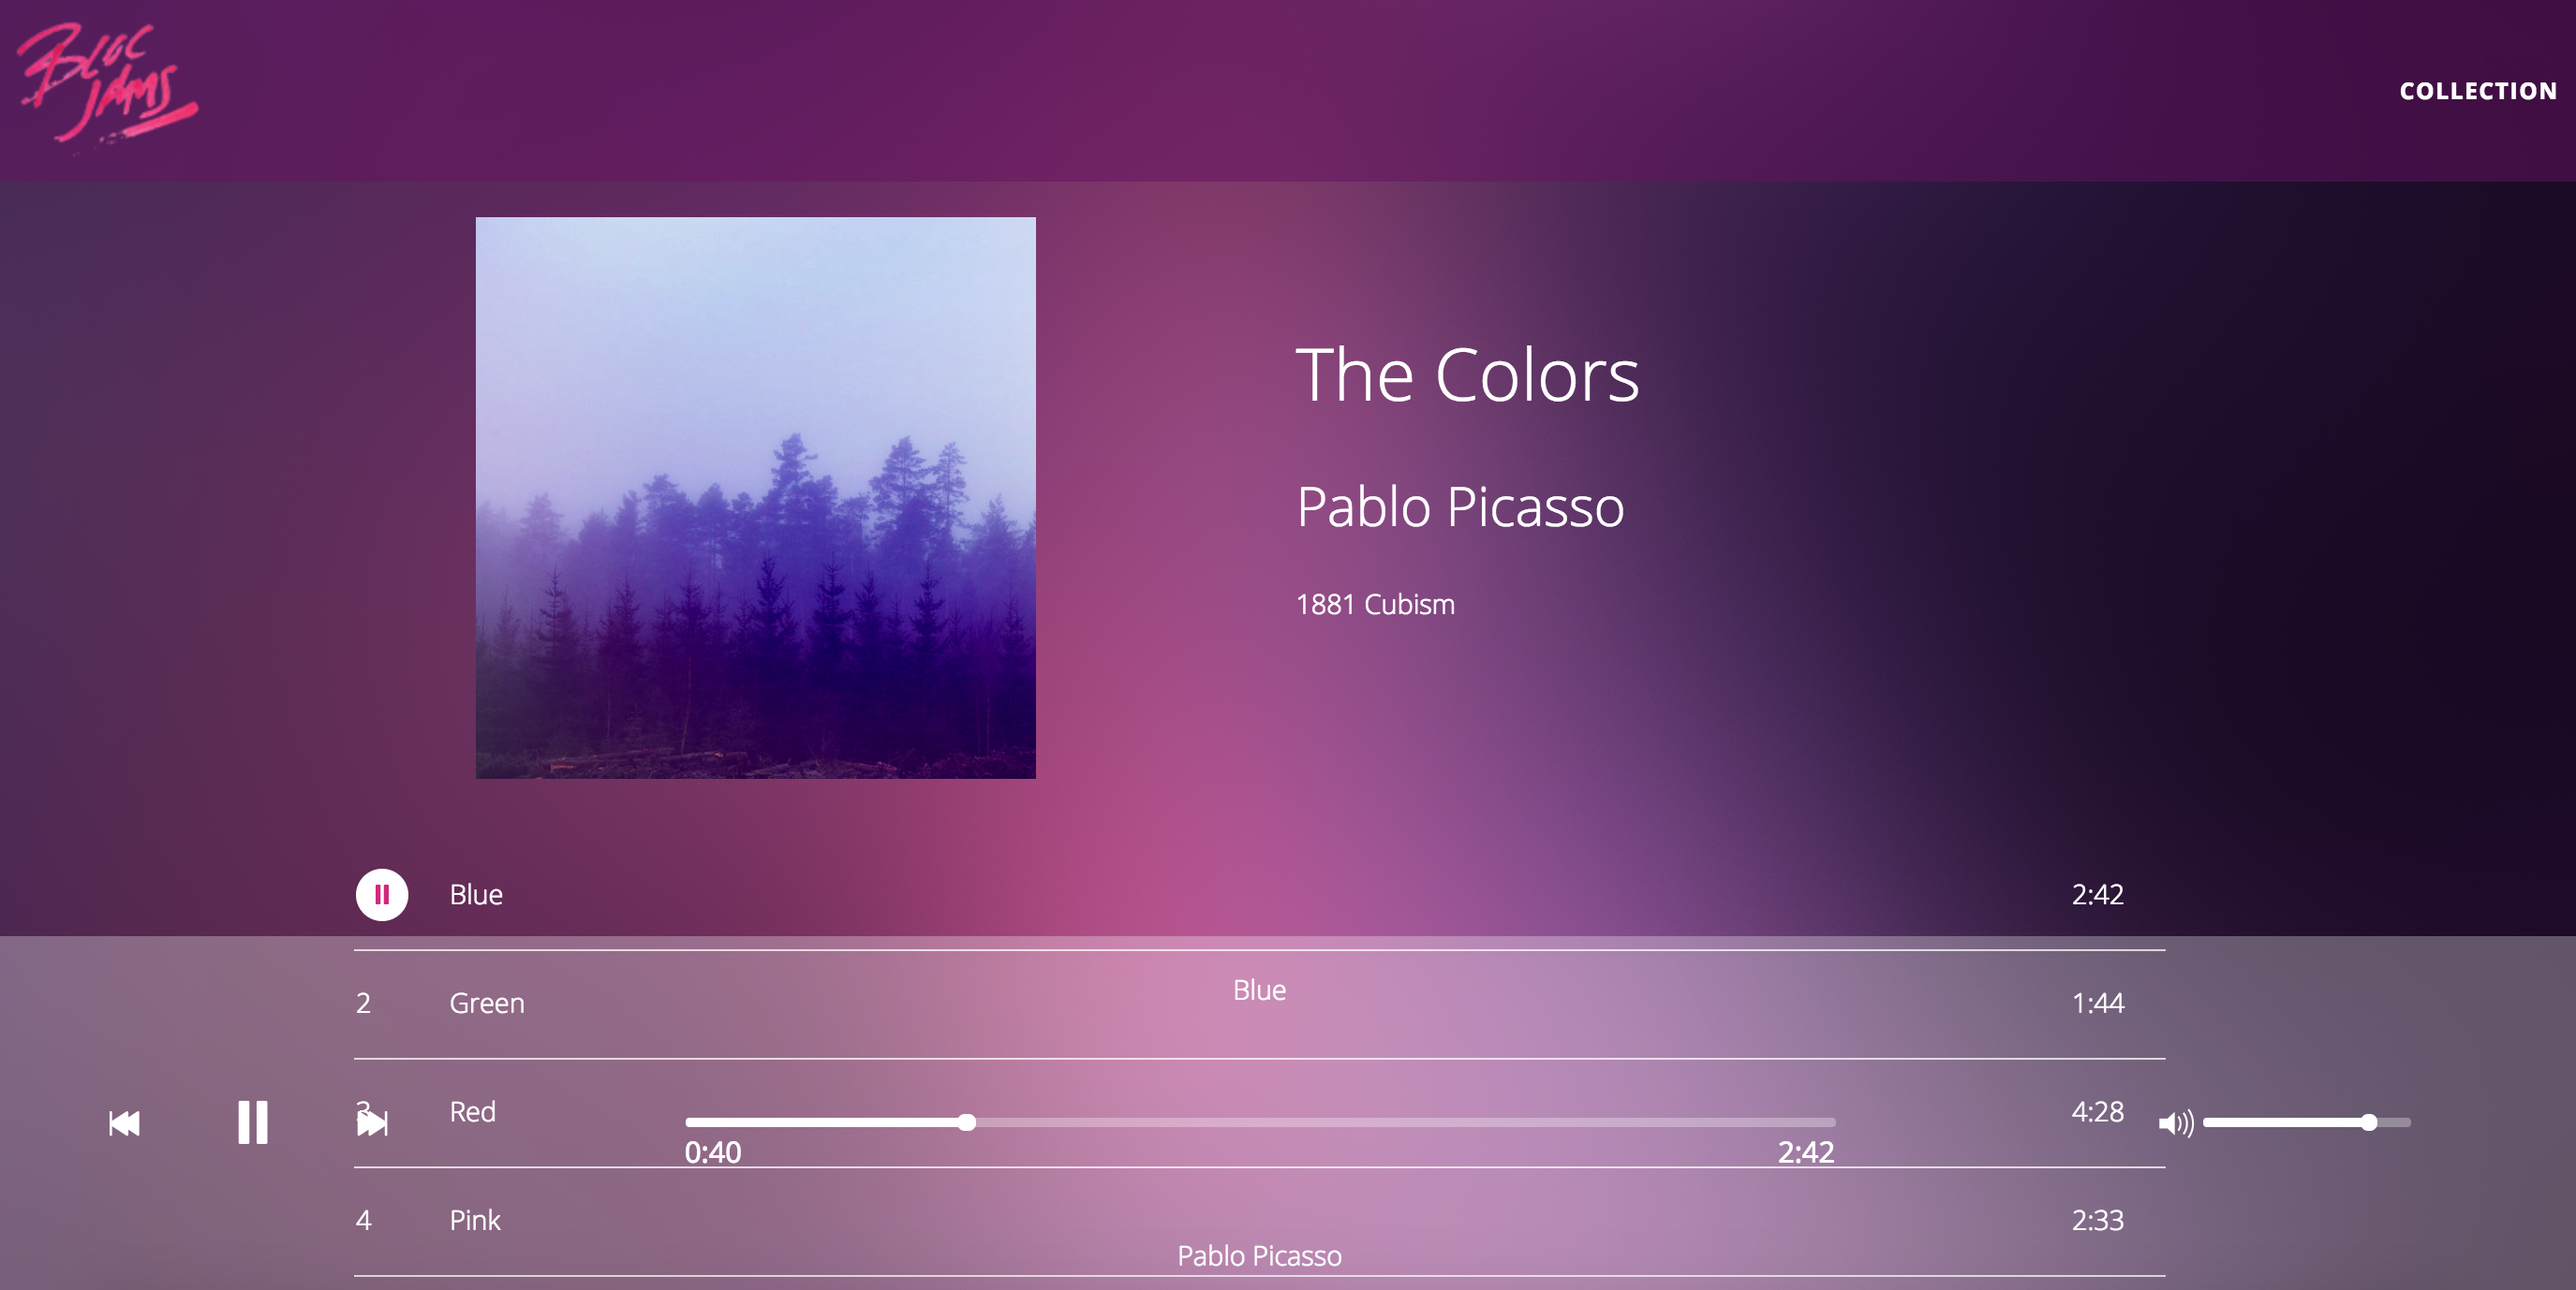
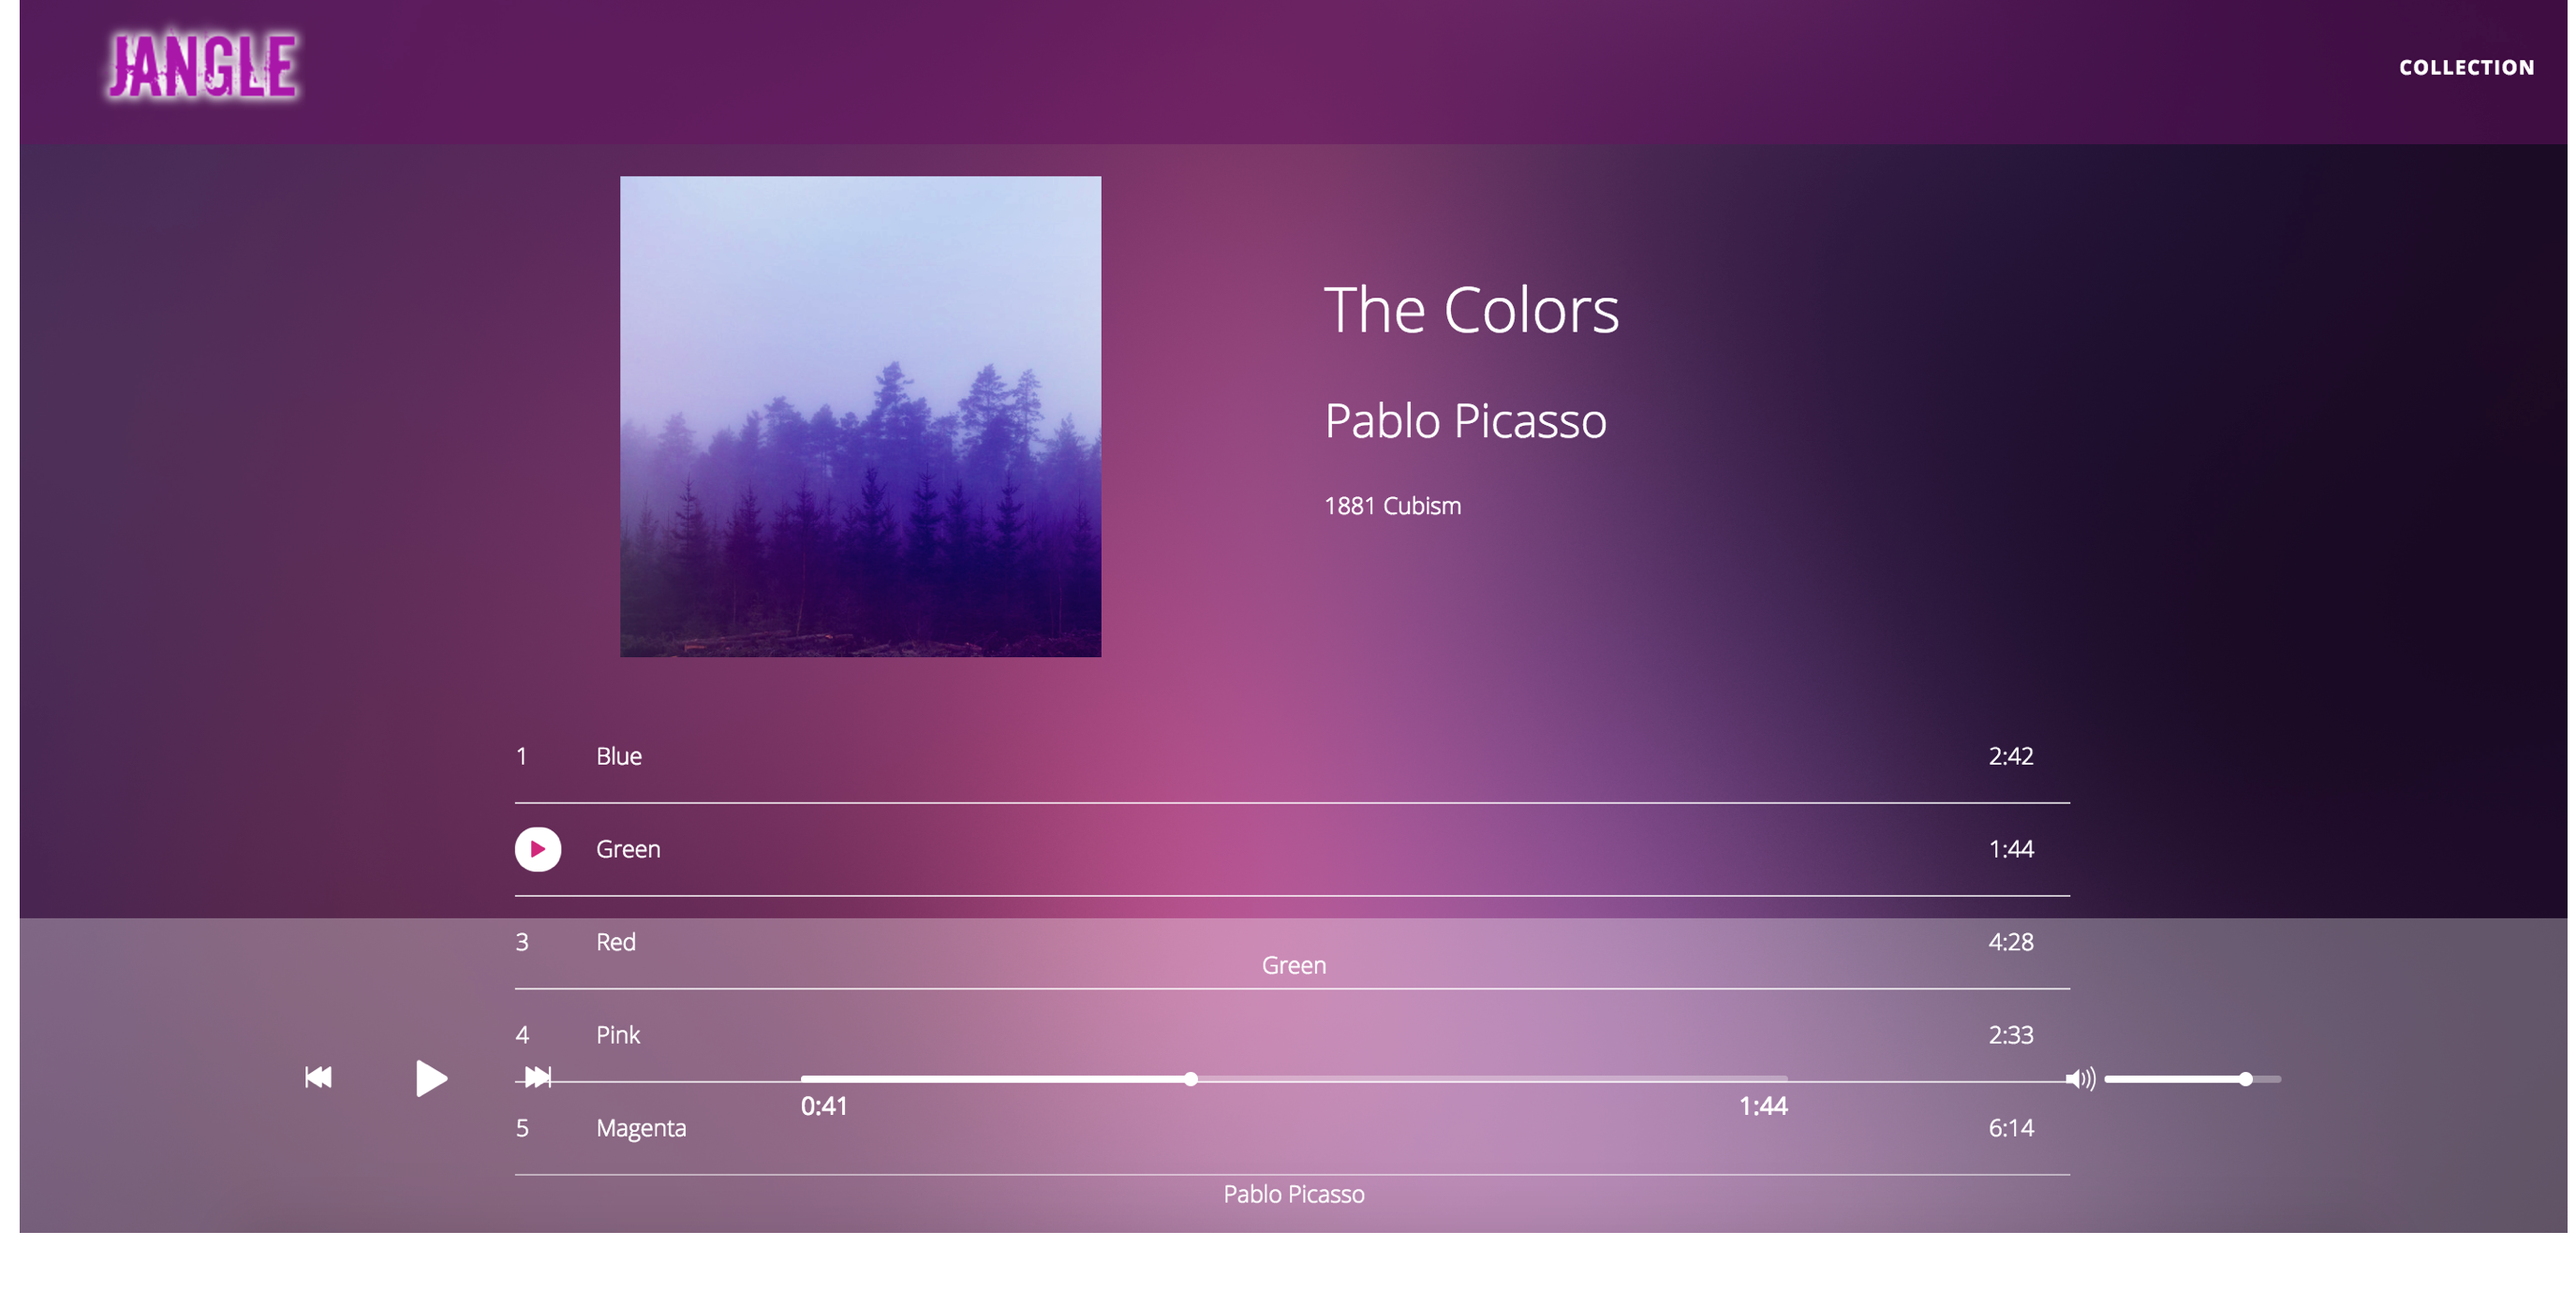
replace bloc jams with jangle

diff --git a/_portfolio/blocjams.md b/_portfolio/blocjams.md
@@ -1,13 +1,13 @@
 ---
 layout: post
-title: BlocJams
+title: Jangle
 thumbnail-path: "/img/blocjams.png"
-short-description: BlocJams is a music player for storing and listening to music collections online.
+short-description: Jangle is a music player for storing and listening to music collections online.
 
 ---
 
 {:.center}
-<img src="/img/blocjams.png" alt='Bloc Jams Mobile App'>
+<img src="/img/blocjams.png" alt='Jangle Mobile App'>
 
 ## Explanation
 
@@ -25,13 +25,13 @@ Throughout the project, I used an editor, Atom, to build the backbone of the app
 <em>Phase I: Native JavaScript</em>
 
 {:.center}
-<img style="width: 600px;" src="/img/bloc-jams-JS.png" alt='Bloc Jams JavaScript'>
+<img style="width: 600px;" src="/img/bloc-jams-JS.png" alt='Jangle JavaScript'>
 
 {:.center}
 <em>Phase II: jQuery</em>
 
 {:.center}
-<img style="width: 600px;" src="/img/bloc-jams-jQ.png" alt='Bloc Jams jQuery'>
+<img style="width: 600px;" src="/img/bloc-jams-jQ.png" alt='Jangle jQuery'>
 
 {:.center}
 <em>Phase III: AngularJS</em>
@@ -40,13 +40,13 @@ Throughout the project, I used an editor, Atom, to build the backbone of the app
 <p style="font-size: 1rem;">Home.html Template</p>
 
 {:.center}
-<img style="width: 600px;" src="/img/bloc-jams-angular-1.png" alt='Bloc Jams Angular Template'>
+<img style="width: 600px;" src="/img/bloc-jams-angular-1.png" alt='Jangle Angular Template'>
 
 {:.center}
 <p style="font-size: 1rem;">Home Controller</p>
 
 {:.center}
-<img style="width: 400px;" src="/img/bloc-jams-angular-2.png" alt='Bloc Jams Angular Controller'>
+<img style="width: 400px;" src="/img/bloc-jams-angular-2.png" alt='Jangle Angular Controller'>
 
 No music player would be complete without the ability to play audio files.
 
